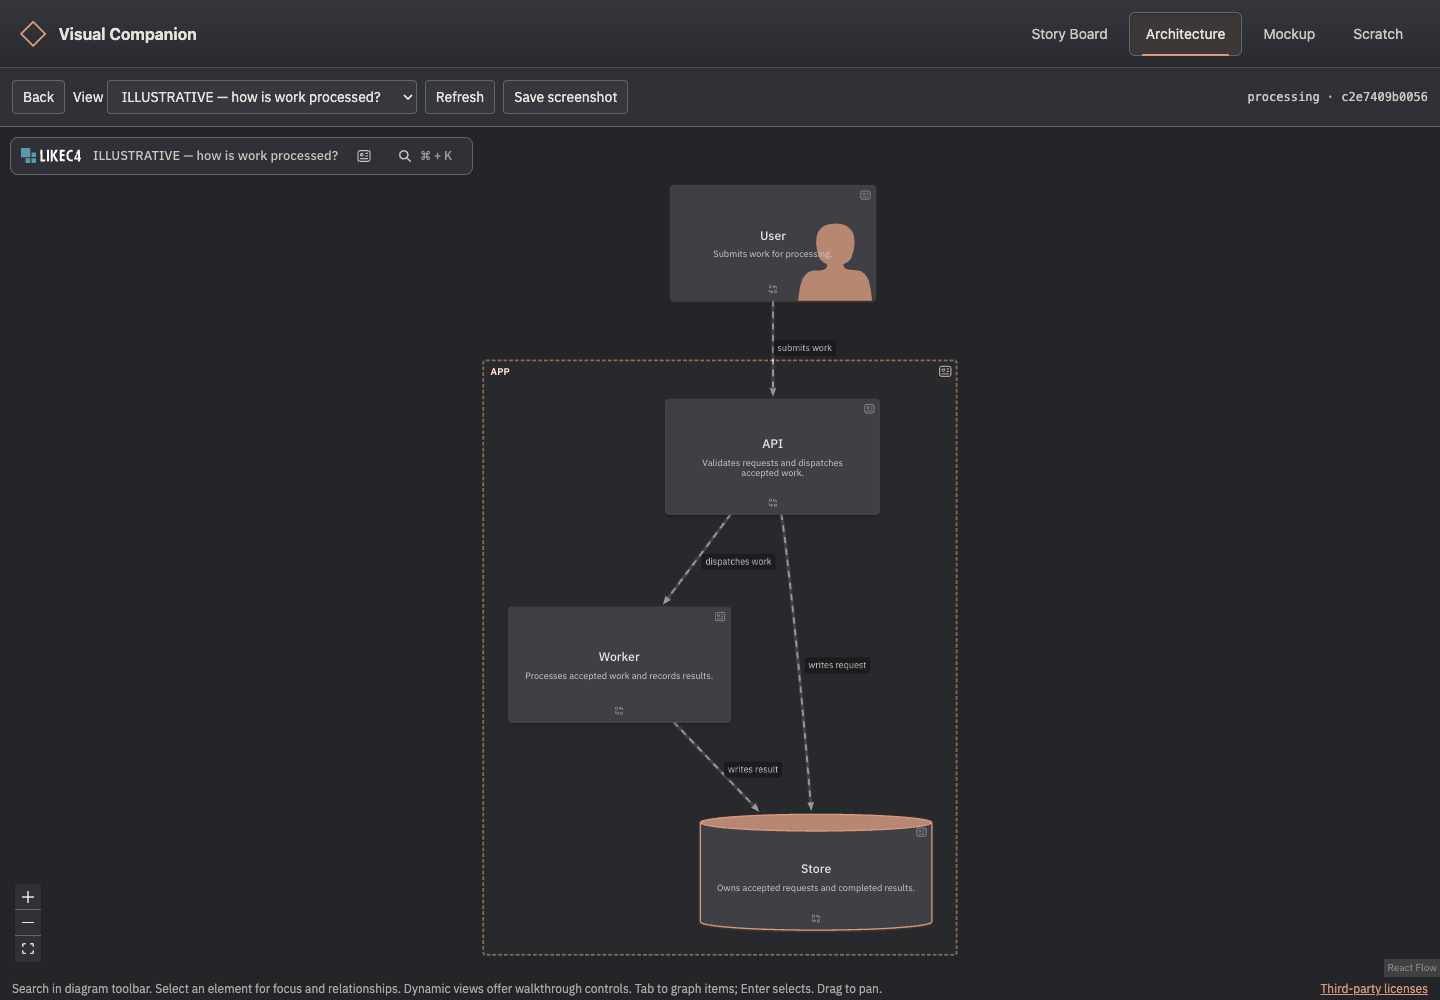
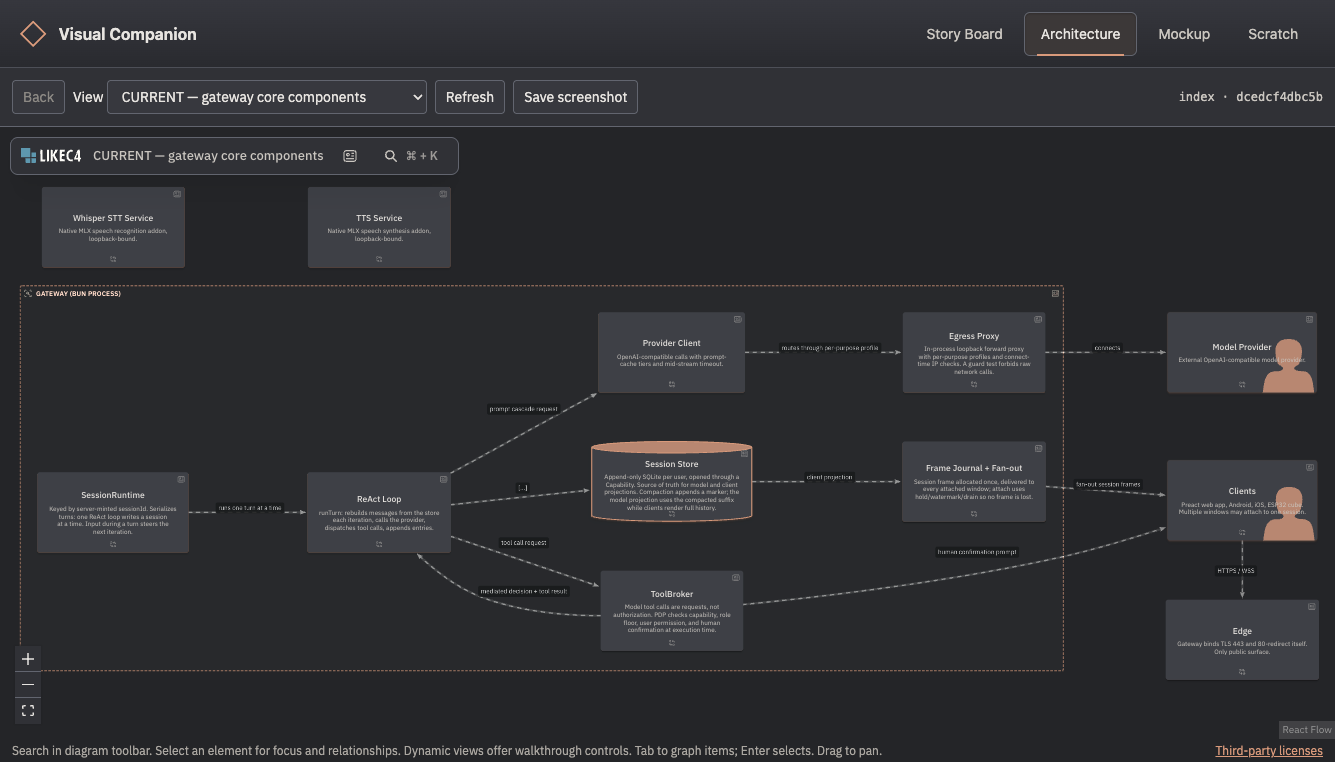
Use Sentient gateway architecture for README showcase

diff --git a/README.md b/README.md
@@ -76,9 +76,9 @@ Managed execution lives only within the current Pi activation; quitting is treat
 
 ## Explore architecture
 
-![Visual Companion architecture viewer in PiBox's charcoal theme, showing a user submitting work to an application with nested API, worker, and data store components and labeled interactions](docs/assets/architecture-demo/architecture-visualizer.png)
+![Visual Companion showing Sentient's gateway architecture: session runtime, ReAct loop, tool broker, session store, provider client, egress proxy, frame delivery, clients, and speech services](docs/assets/architecture-demo/architecture-visualizer.png)
 
-*Actual viewer rendering of the [illustrative architecture example](skills/architecture-visualizer/templates/example.c4). Explore the overview, drill into components, or follow a request step by step.*
+*Sentient gateway architecture rendered in Visual Companion—not PiBox's own architecture. Explore system boundaries and component relationships, drill into focused views, or follow a request step by step.*
 
 Ask PiBox to explain a system visually, or invoke:
 
